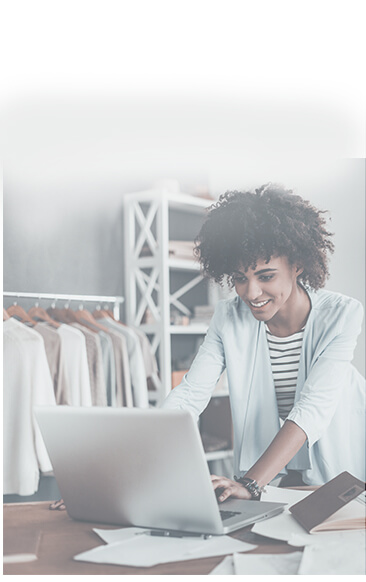
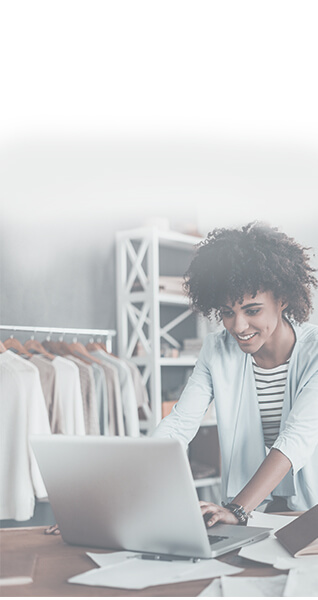
Update animation

diff --git a/2018/2018-04/2018-04-12/source/business-static/300x600.css b/2018/2018-04/2018-04-12/source/business-static/300x600.css
@@ -588,26 +588,26 @@
 /*-- show bg --*/
 @-webkit-keyframes showBackground {
   0%   {
-    -webkit-transform: translate(66px, 0);
+    -webkit-transform: translate(18px, 0);
   }
   100% { 
-    -webkit-transform: translate(66px, 0);
+    -webkit-transform: translate(18px, 0);
   }
 }
 @-moz-keyframes showBackground {
   0%   {
-    -moz-transform: translate(66px, 0);
+    -moz-transform: translate(18px, 0);
   }
   100% { 
-    -moz-transform: translate(66px, 0);
+    -moz-transform: translate(18px, 0);
   }
 }
 @keyframes showBackground {
   0%   {
-    transform: translate(66px, 0);
+    transform: translate(18px, 0);
   }
   100% {
-    transform: translate(66px, 0);
+    transform: translate(18px, 0);
   }
 }
 
@@ -620,7 +620,7 @@
   }
   100% { 
     visibility: visible;
-    -webkit-transform: translate(-66px, 0);
+    -webkit-transform: translate(-18px, 0);
   }
 }
 @-moz-keyframes slideLeftBackground {
@@ -630,7 +630,7 @@
   }
   100% { 
     visibility: visible;
-    -moz-transform: translate(-66px, 0);
+    -moz-transform: translate(-18px, 0);
   }
 }
 @keyframes slideLeftBackground {
@@ -640,7 +640,7 @@
   }
   100% { 
     visibility: visible;
-    transform: translate(-66px, 0);
+    transform: translate(-18px, 0);
   }
 }
 
@@ -703,10 +703,10 @@
 
 .image {
   background: url('./images/300x600_image.jpg') no-repeat center center;
-  width: 366px;
-  height: 582px;
+  width: 318px;
+  height: 600px;
   top: 0px;
-  left: -66px;
+  left: -18px;
 
   -webkit-animation: showBackground 0.01s ease-in-out 0s forwards;
   -moz-animation: showBackground 0.01s ease-in-out 0s forwards;

diff --git a/2018/2018-04/2018-04-12/source/business/300x600.css b/2018/2018-04/2018-04-12/source/business/300x600.css
@@ -588,26 +588,26 @@
 /*-- show bg --*/
 @-webkit-keyframes showBackground {
   0%   {
-    -webkit-transform: translate(33px, 0);
+    -webkit-transform: translate(18px, 0);
   }
   100% { 
-    -webkit-transform: translate(33px, 0);
+    -webkit-transform: translate(18px, 0);
   }
 }
 @-moz-keyframes showBackground {
   0%   {
-    -moz-transform: translate(33px, 0);
+    -moz-transform: translate(18px, 0);
   }
   100% { 
-    -moz-transform: translate(33px, 0);
+    -moz-transform: translate(18px, 0);
   }
 }
 @keyframes showBackground {
   0%   {
-    transform: translate(33px, 0);
+    transform: translate(18px, 0);
   }
   100% {
-    transform: translate(33px, 0);
+    transform: translate(18px, 0);
   }
 }
 
@@ -620,7 +620,7 @@
   }
   100% { 
     visibility: visible;
-    -webkit-transform: translate(-33px, 0);
+    -webkit-transform: translate(-18px, 0);
   }
 }
 @-moz-keyframes slideLeftBackground {
@@ -630,7 +630,7 @@
   }
   100% { 
     visibility: visible;
-    -moz-transform: translate(-33px, 0);
+    -moz-transform: translate(-18px, 0);
   }
 }
 @keyframes slideLeftBackground {
@@ -640,7 +640,7 @@
   }
   100% { 
     visibility: visible;
-    transform: translate(-33px, 0);
+    transform: translate(-18px, 0);
   }
 }
 
@@ -703,10 +703,10 @@
 
 .image {
   background: url('./images/300x600_image.jpg') no-repeat center center;
-  width: 363px;
-  height: 582px;
+  width: 318px;
+  height: 600px;
   top: 0px;
-  left: -33px;
+  left: -18px;
 
   -webkit-animation: showBackground 0.01s ease-in-out 0s forwards;
   -moz-animation: showBackground 0.01s ease-in-out 0s forwards;
